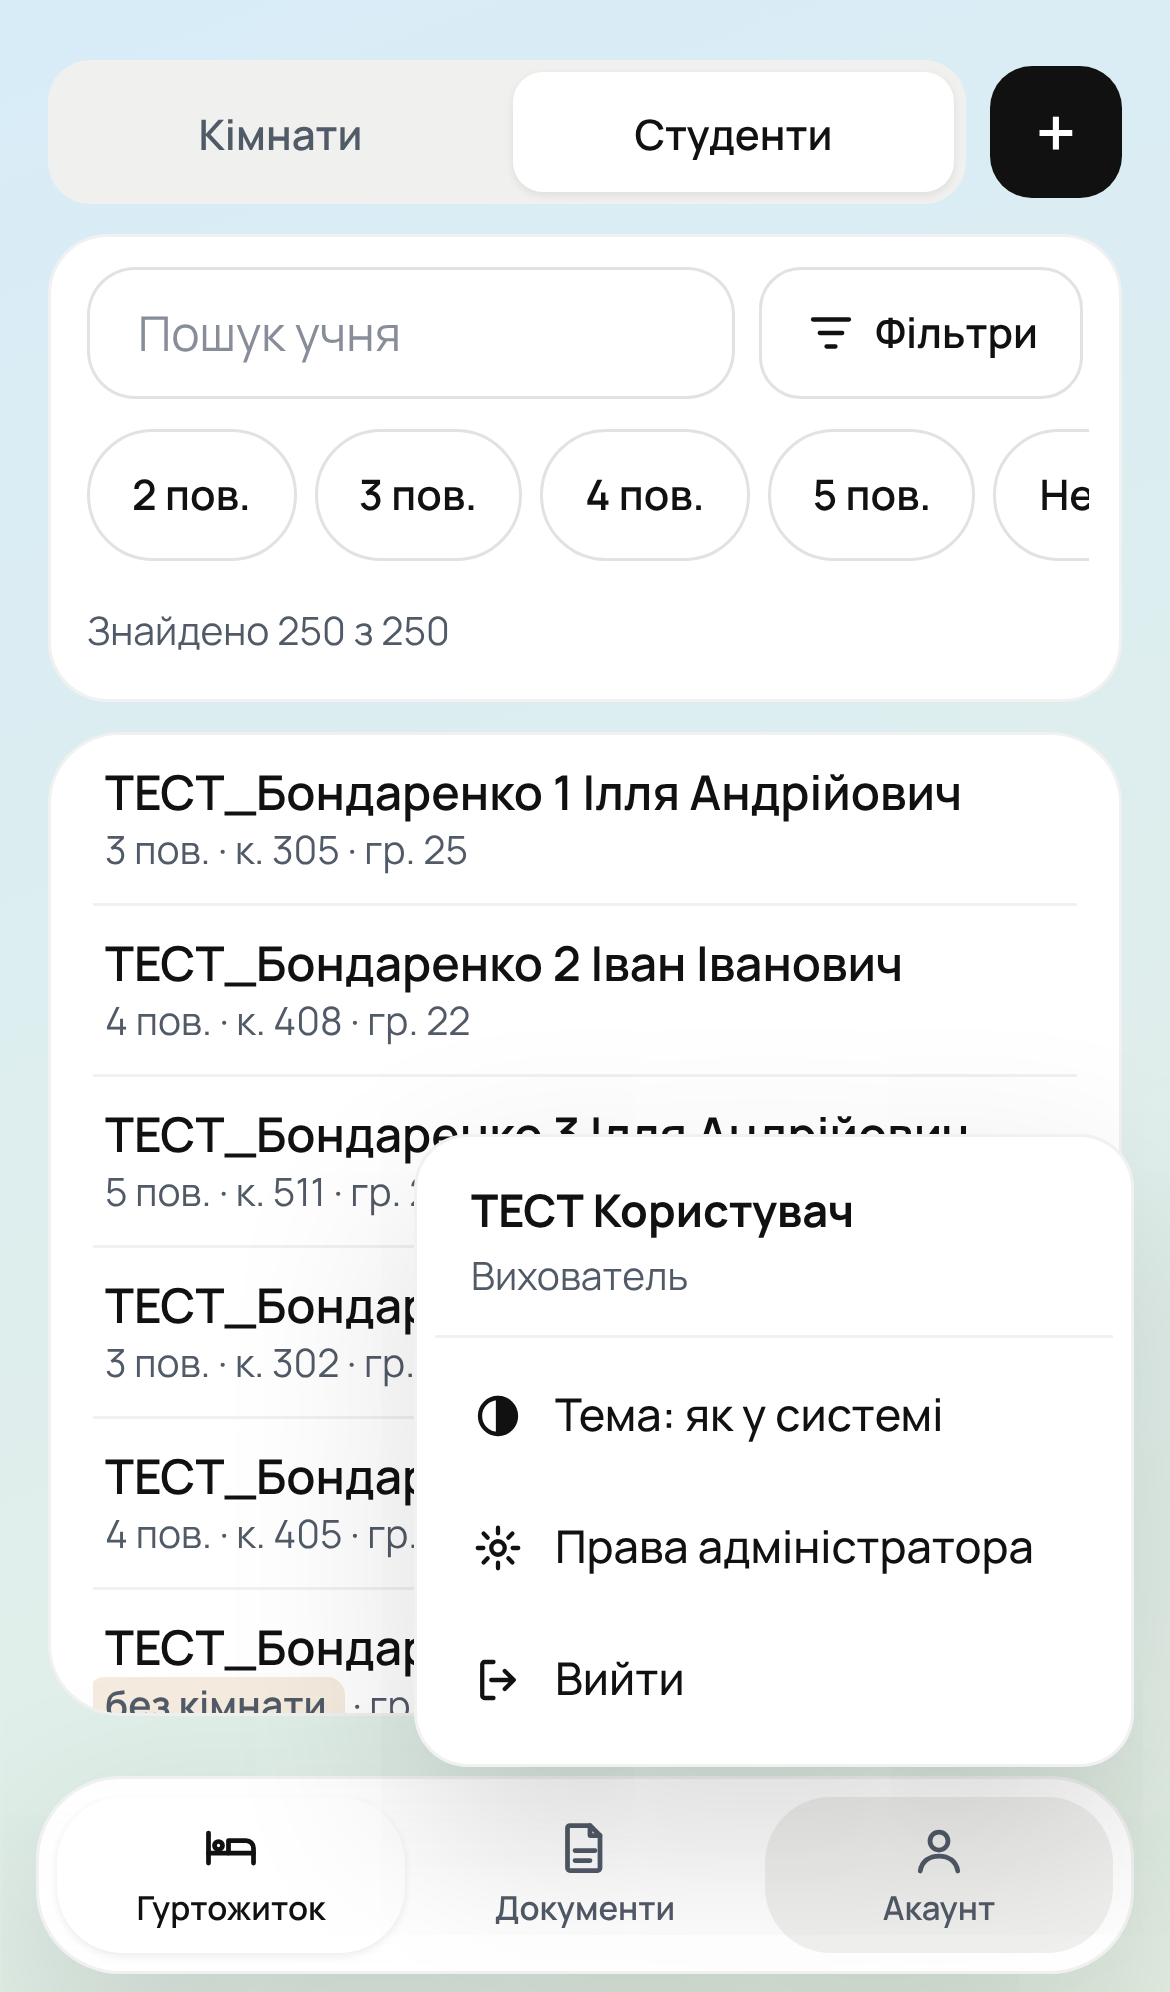
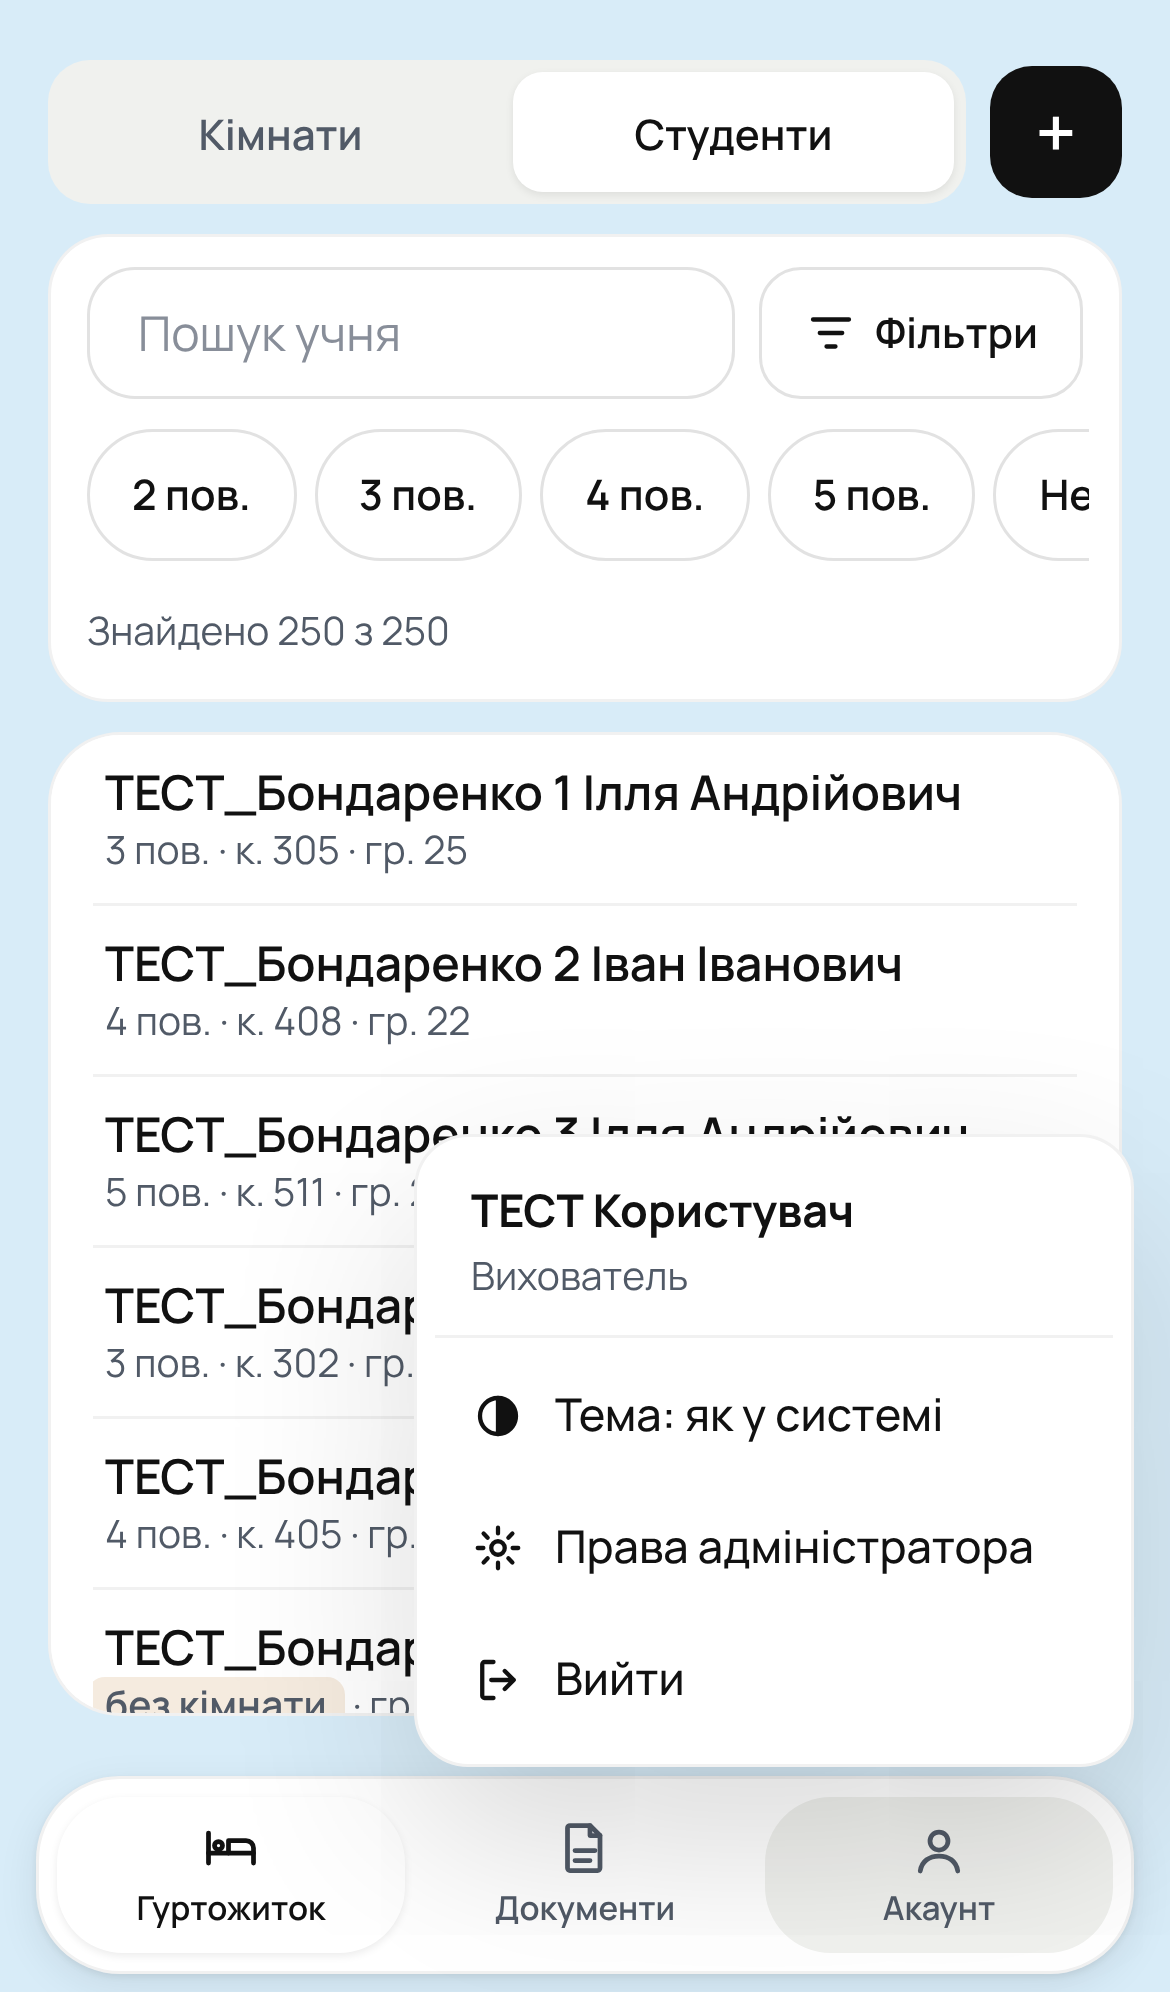
Фон телефона однотонний (без швів під панеллю Safari), щільне меню з малою тінню
Claude-Session: https://claude.ai/code/session_0179mcXG9UhznU63hvADD4UN

Changed region(s): [[0.0, 0.9026, 1.0, 1.0]]

diff --git a/src/styles/ux-mobile.css b/src/styles/ux-mobile.css
@@ -157,3 +157,15 @@ html[data-theme='dark'] { color-scheme: dark; }
   .chip:hover:not(:disabled) { background: transparent; }
   .chip.on:hover:not(:disabled) { background: var(--muted); }
 }
+
+/* ФОН ТЕЛЕФОНА — ОДНОТОННИЙ. Градієнт на краях неминуче давав шви: під годинником і під панеллю Safari iOS показує колір html, який не збігався з кінцем градієнта
+   (синя смуга внизу, «облізла» тінь меню на межі). Суцільний колір html = колір усього фону — шов неможливий. Публічна анкета (is-surface) — біла. */
+@media (max-width: 760px), (pointer: coarse) and (max-height: 500px) {
+  :root { background: var(--g1); }
+  body { background: transparent; }
+  body::before { display: none; }
+  .shell-panel { background: transparent; }
+  :root.is-surface { background: var(--surface); }
+  /* меню-плашка: щільна, з невеликою тінню (велика тінь обрізалась краєм екрана) */
+  .tabs-m { background: var(--surface); backdrop-filter: none; -webkit-backdrop-filter: none; box-shadow: 0 1px 3px rgba(0,0,0,.08), 0 4px 14px rgba(0,0,0,.08); }
+}

diff --git a/ux-audit/REPORT.md b/ux-audit/REPORT.md
@@ -40,6 +40,7 @@
 | U-30 | Нижнє меню, телефон | iPhone | Пункти не на всю ширину, градієнтна маска справа, меню високо над краєм | — | низька | **виправлено**: рівномірні пункти, без маски, нижче (`--tab-bottom`) |
 | U-31 | «+» у вихователя | iPhone | У PIN-сесії (права вихователя) є лише «Додати учня», тому «+» одразу відкриває форму — за задумом прав (кімнати додає лише адмін) | — | — | пояснення, не помилка |
 | U-32 | Картка учня | всі | Занадто багато інформації: «Оновлення даних», «Історія кімнат», «Версії анкети», згорнута медична інформація | відкрити картку | середня | **виправлено за вимогою власника**: ці блоки прибрано; медична інформація завжди відкрита й лише якщо є (порожні поля не показуємо); анкета без «—» і без версії; зайві запити (історія, автори версій) прибрано; `e2e/student-card.mjs` |
+| U-33 | Усі, телефон | iPhone | Знову синя смуга внизу й «облізла» тінь меню: колір html (під панеллю Safari) ≠ кінець градієнта, тінь обрізалась на шві | відкрити на iPhone | висока | **виправлено радикально**: на телефоні фон однотонний (`:root`=`--g1`, `theme-color` той самий), без градієнта/фіксованого шару; меню — щільна плашка з малою тінню; `e2e/edges.mjs` перевіряє, що верх і низ екрана однакового кольору |
 
 ## Не перевірено
 Живі дані/RLS/реальні помилки Supabase, публічна анкета `#/form/:token` з реальним токеном, затвердження оновлень, діалоги кімнат, перегляд документів (docx), клавіатура на реальному пристрої, контраст (автоматично не вимірювався).
